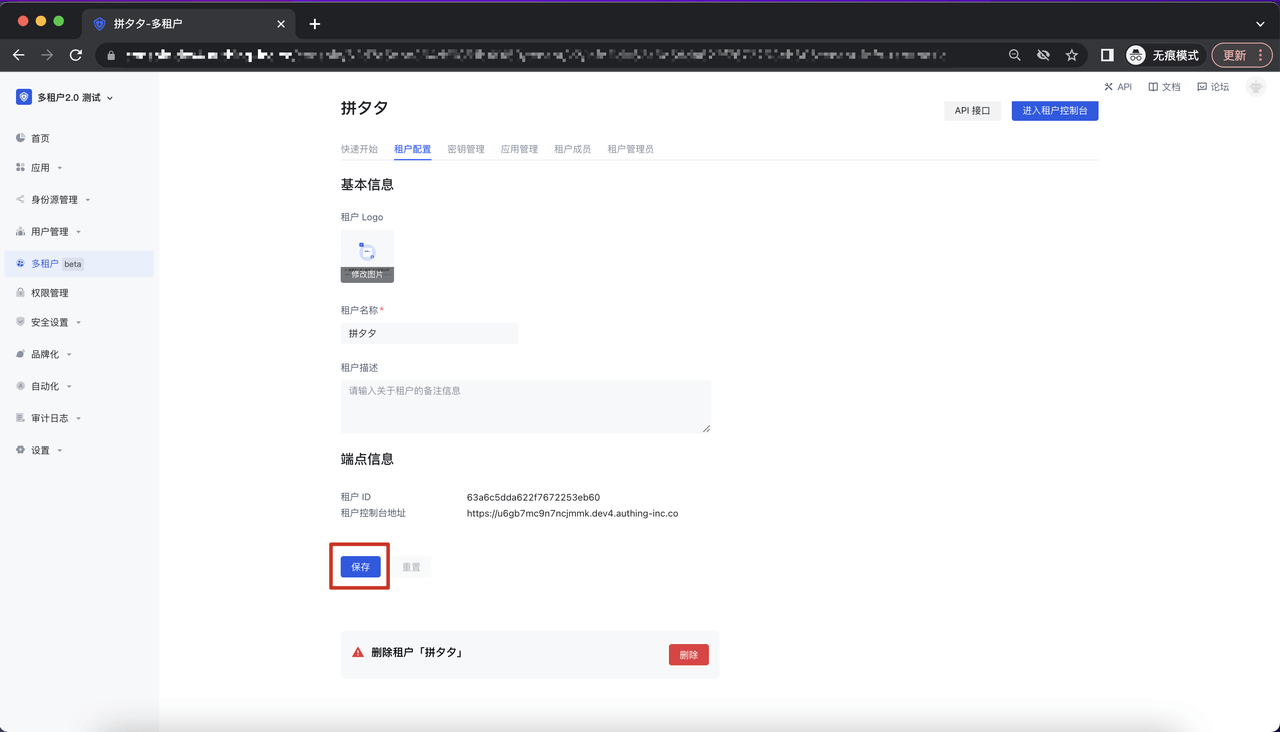
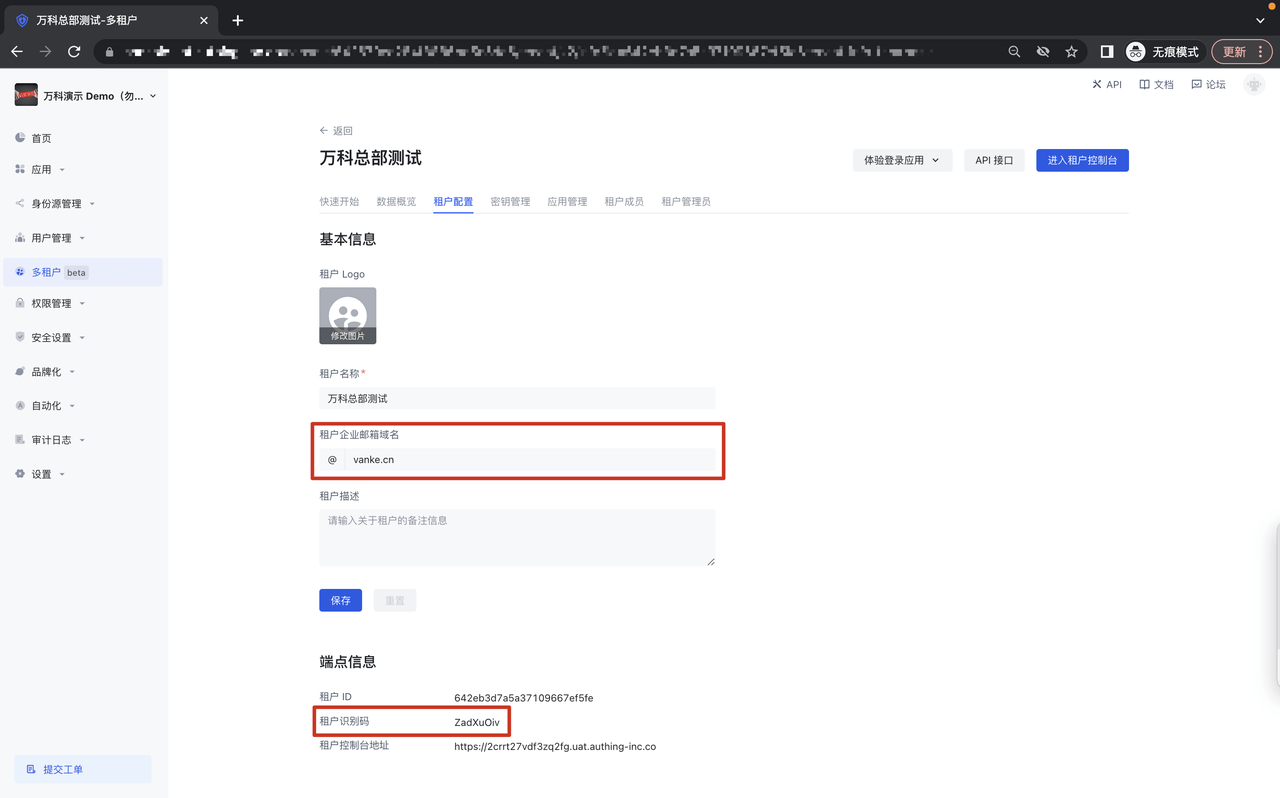
feat:tenant-0.6:新增文档

diff --git a/docs/.vuepress/sidebar.js b/docs/.vuepress/sidebar.js
@@ -5857,10 +5857,10 @@ const zhCnNavBar = {
       title: "基础设置",
       path: "/tenant-console/setting",
     },
-    {
-      title: "管理员",
-      path: "/tenant-console/admin",
-    },
+    // {
+    //   title: "管理员",
+    //   path: "/tenant-console/admin",
+    // },
   ],
   "/tenant-app-demo/": [
     {

diff --git a/docs/multi-tenant-console/operation-tenant.md b/docs/multi-tenant-console/operation-tenant.md
@@ -44,7 +44,7 @@
 
 # 配置租户基础信息
 
-在租户详情页面，租户配置 Tab 页面，可以对租户的 Logo、租户名称、租户描述进行编辑，编辑完成后点击保存：
+在租户详情页面，租户配置 Tab 页面，可以对租户的 Logo、租户名称、租户企业邮箱域名、租户描述进行编辑，编辑完成后点击保存；与此同时，我们提供了租户识别码功能，在 Saas 应用中，通过输入唯一的租户识别码，即可加入相应的租户：
 
 ![](./images/tenantManagement/2-9.png)
 

diff --git a/docs/tenant-console/tenant-custom-fields.md b/docs/tenant-console/tenant-custom-fields.md
@@ -1,0 +1,15 @@
+# 字段管理
+
+<LastUpdated/>
+
+## 用户字段管理
+
+用户字段管理分为用户基础字段和用户扩展字段，可以根据用户字段的使用场景，比如控制台用户详情、用户个人中心进行相应的配置；
+
+![](./images/tenant-custom-fields-1.png)
+
+## 部门字段管理
+
+部门字段管理只支持添加扩展字段，添加后的扩展字段支持展示在控制台的部门详情页面；
+
+![](./images/tenant-custom-fields-2.png)

diff --git a/docs/integration/bytebase/2.md b/docs/integration/bytebase/2.md
@@ -4,7 +4,7 @@
 
 ![](~@imagesZhCn/integration/bytebase/3-3.png)
 
-将上一步在 {{$localeConfig.brandName}} 控制台中复制的 Issuer、Client ID、Client Secret 填入对应输入框
+将上一步在 Authing 控制台中复制的 Issuer、Client ID、Client Secret 填入对应输入框
 
 ![](~@imagesZhCn/integration/bytebase/3-1.png)
 

diff --git a/docs/tenant-console/operation-auth-tenant.md b/docs/tenant-console/operation-auth-tenant.md
@@ -6,7 +6,7 @@
 
 点击左上角的租户名称，会展示出所有该管理员所在的租户，通过点击租户名称，即可跳转到相应的租户控制台；
 
-![](./images/switch-tenant.png)
+![](./images/switch-tenant.jpeg)
 
 ## 创建租户
 

diff --git a/docs/integration/README.md b/docs/integration/README.md
@@ -970,7 +970,7 @@
         image: "bytebase_logo@2x.png",
         image2x: "bytebase_logo@3x.png",
         category: "devtools",
-      },
+      }
     ],
   categories:
     [
